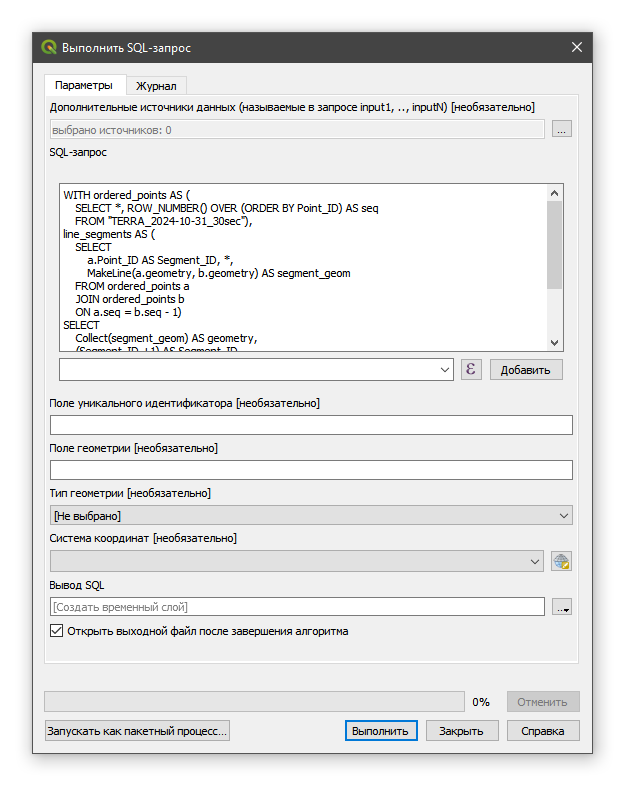
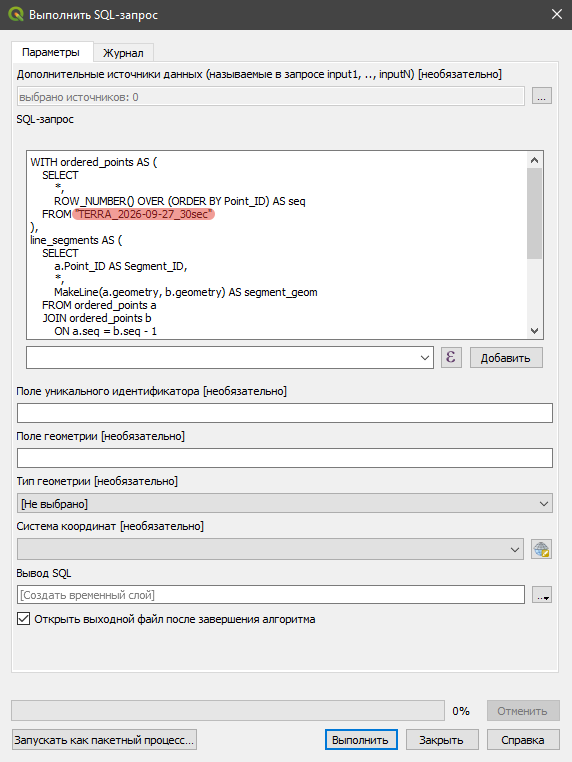
Мои ручные правки на вечер 18 октября 2026

Changed region(s): [[0.0, 0.0, 1.0, 0.9961]]

diff --git a/index.md b/index.md
@@ -57,7 +57,7 @@ style="max-width: 100%; border: 1px solid rgb(0, 163, 211); border-radius: 20px;
 	- [Установка геоинформационной системы QGIS](#установка-геоинформационной-системы-qgis)
 - [Расчет подспутниковых точек](#расчет-подспутниковых-точек)
 	- [Ввод даты вашего варианта](#ввод-даты-вашего-варианта)
-	- [Запуск скрипта](#запуск-скрипта)
+	- [Запуск скрипта на выполнение](#запуск-скрипта-на-выполнение)
 	- [Результат расчета](#результат-расчета)
 - [Создание линейных слоев траекторий](#создание-линейных-слоев-траекторий)
 - [Анимация пролета КА в QGIS](#анимация-пролета-ка-в-qgis)
@@ -75,11 +75,16 @@ style="max-width: 100%; border: 1px solid rgb(0, 163, 211); border-radius: 20px;
 
 В этой работе рассчитываются орбиты для двух космических аппаратов (КА):
 
-1\. [**Международной космической станции**](https://ru.wikipedia.org/wiki/Международная_космическая_станция), сокр. МКС
-(англ. International Space Station, сокр. ISS). \
+1\. <a href="https://ru.wikipedia.org/wiki/Международная_космическая_станция" 
+      title="Ссылка на статью о МКС в Википедии" 
+      target="_blank">
+      <b>Международной космической станции</b></a>, сокр. МКС (англ. International Space Station, сокр. ISS). \
 Номер по спутниковому каталогу NORAD **25544**.
 
-2\. [**TERRA**](https://ru.wikipedia.org/wiki/Терра_(спутник)) — транснационального научно-исследовательского спутника. \
+2\. <a href="https://ru.wikipedia.org/wiki/Терра_(спутник)" 
+      title="Ссылка на статью о МКС в Википедии" 
+      target="_blank">
+      <b>TERRA</b></a> — транснационального научно-исследовательского спутника. \
 Номер по спутниковому каталогу NORAD **25994**.
 
 Орбиты рассчитываются только на одни сутки.
@@ -140,7 +145,8 @@ style="max-width: 100%; border: 1px solid rgb(0, 163, 211); border-radius: 20px;
 ### Рабочая папка
 
 При работе на своем личном компьютере (ноутбуке) создайте в корне диска «C:» (или диска «D:», если имеется) отдельную рабочую папку с названием, например, «**Work_Dir_ORBIT**». \
-Если же вы используете учебный компьютер, установленный в аудитории, и&nbsp;входите в систему под своей личной учетной записью, создайте такую папку на рабочем столе. \
+Если же вы используете учебный компьютер, установленный в аудитории, и&nbsp;входите в систему под своей личной учетной записью, создайте такую папку на рабочем столе 
+— это защитит ваши файлы от возможного удаления или изменения другими студентами, поскольку у&nbsp;них не будет доступа к&nbsp;вашей рабочей папке. \
 В любом случае все скачиваемые и создаваемые вами в этой работе файлы помещайте **только в эту папку**. \
 Не "разбрасывайте" файлы и папки с данными по всему компьютеру!
 
@@ -155,7 +161,7 @@ style="max-width: 100%; border: 1px solid rgb(0, 163, 211); border-radius: 20px;
 <br>
 ### Установка Python и необходимых библиотек
 
-Расчет траекторий выполняется программой (скриптом) на языке **Python**. 
+Расчет траекторий выполняется программой (скриптом) на языке **Python**. \
 Для ее работы на вашем компьютере должен быть установлен Python версии **не ниже 3.10**. \
 Рекомендуемые версии — **Python&nbsp;3.12** или **Python&nbsp;3.13**.
 
@@ -164,8 +170,8 @@ style="max-width: 100%; border: 1px solid rgb(0, 163, 211); border-radius: 20px;
 > Самые свежие версии (3.14 и новее) тоже лучше не брать — для них иногда запаздывают готовые сборки необходимых библиотек.*
 
 **Проверьте, установлен ли Python на вашем компьютере.** \
-Откройте командную строку: нажмите на клавиатуре комбинацию клавиш «**Win&nbsp;+&nbsp;R**», введите `cmd` и нажмите «**Enter**». \
-В открывшемся черном окне командной строки введите следующую команду и нажмите «Enter»:
+Откройте командную строку: для этого нажмите на клавиатуре комбинацию клавиш «**Win&nbsp;+&nbsp;R**», введите `cmd` и нажмите «**Enter**». \
+В открывшемся черном окне командной строки введите следующую команду и нажмите «**Enter**»:
 
 ```
 python --version
@@ -185,54 +191,58 @@ python --version
 - Запустите скачанный установщик. \
   В первом окне мастера установки **обязательно поставьте галочку** «**Add&nbsp;python.exe&nbsp;to&nbsp;PATH**» (она находится внизу окна и по умолчанию снята):
 
-<img src="media/Установщик_Python_Add_to_PATH.png" alt="Нет фото" style="width: ; border: 2px solid #606c71;">
+<img src="media/Установщик_Python_Add_to_PATH.png" alt="Нет фото" style="width: ; border: 1px solid #606c71;">
 
 > *Без этой галочки команда `python` в командной строке работать не будет (Windows просто "не найдет" программу). \
 > Если у вас нет прав администратора компьютера (например, на учебном компьютере), снимите галочку «Use&nbsp;admin&nbsp;privileges&nbsp;when&nbsp;installing&nbsp;py.exe».*
 
 - Нажмите «**Install&nbsp;Now**» и дождитесь окончания установки.
-- **Закройте** окно командной строки, откройте его заново и еще раз выполните команду `python --version` — теперь она должна показать установленную версию.
+- **Закройте** окно командной строки, откройте его заново и еще раз выполните <span style="white-space: nowrap">команду <code>python --version</code></span> — теперь она должна показать установленную версию.
 
 > *Для ОС **macOS** установщик Python также можно скачать с сайта 
    <a href="https://www.python.org/downloads/macos/" 
       title="Ссылка на страницу загрузок Python для macOS" 
       target="_blank">
       <b>python.org</b></a>. 
-> Обратите внимание, что в macOS во всех приведенных ниже командах вместо `python` нужно писать `python3`.*
+> Обратите внимание, что в macOS во всех приведенных ниже командах <span style="white-space: nowrap">вместо <code>python</code> нужно писать <code>python3</code></span>.*
 
 <br>
-**Скачайте файлы работы** и сохраните их в вашей рабочей папке:
+**Скачайте необходимые для работы файлы** и сохраните их в вашей рабочей папке:
 
 - программу (скрипт) для расчета траекторий — 
    <a href="./materials/TLE2GroundTracks_GeoJSON_2026-10-02.py" 
-      download 
+      download="TLE2GroundTracks_GeoJSON_2026-10-02.py" 
       title="Ссылка для загрузки Python-скрипта">
       <b>TLE2GroundTracks_GeoJSON_2026-10-02.py</b></a>;
 - список необходимых скрипту библиотек — 
    <a href="./materials/requirements.txt" 
-      download 
+      download="requirements.txt" 
       title="Ссылка для загрузки файла requirements.txt">
       <b>requirements.txt</b></a>.
 
 > *Скачивайте файлы именно по этим ссылкам, а не копируйте текст программы из окна браузера — при копировании могут нарушиться отступы, а для Python они имеют принципиальное значение.*
 
 <br>
-**Установите библиотеки, необходимые для работы скрипта:**
+**Установите дополнительные библиотеки, необходимые для работы скрипта:**
 
 - **spacetrack** — для получения параметров орбит с сайта Space&#8209;Track;
 - **pyorbital** — для расчета положения КА на орбите.
 
 Откройте командную строку **сразу в вашей рабочей папке**. 
-Для этого откройте рабочую папку в Проводнике Windows, щелкните левой клавишей мыши по адресной строке Проводника (вверху окна), 
-сотрите в ней путь, введите `cmd` и нажмите «Enter»:
+Для этого откройте рабочую папку в&nbsp;Проводнике Windows, щелкните левой клавишей мыши по адресной строке Проводника (вверху&nbsp;окна), 
+сотрите в ней путь, введите `cmd` и нажмите «**Enter**»:
 
-<img src="media/Командная_строка_из_адресной_строки_Проводника.png" alt="Нет фото" style="width: ; border: 2px solid #606c71;">
+<img src="media/Командная_строка_из_адресной_строки_Проводника.png" alt="Нет фото" style="width: ; border: 1px solid #606c71;">
 
-В открывшейся командной строке выполните команду:
+В открывшейся командной строке введите команду:
 
 ```
 python -m pip install -r requirements.txt
 ```
+
+<img src="media/Командная_строка_установка_библиотек.png" alt="Нет фото" style="width: ; border: 1px solid #606c71;">
+
+Выполните ее нажав «**Enter**».
 
 Программа установки **pip** скачает и установит библиотеки spacetrack и pyorbital, а также все библиотеки, которые нужны уже им самим. 
 Первая установка занимает **несколько минут** — не прерывайте ее, даже если кажется, что ничего не происходит. \
@@ -273,12 +283,11 @@ python -c "import spacetrack, pyorbital; print('OK')"
 > Однако он предоставляет только актуальные (самые свежие) TLE, а для расчета траекторий на прошедшие даты нужен архив, который есть именно на Space&#8209;Track.*
 
 Зарегистрируйтесь на сайте Space&#8209;Track, нажав на его главной странице «**Create&nbsp;Account**» и заполнив регистрационную форму. \
+На указанную вами электронную почту (email) придет письмо со ссылкой — перейдите по ней, создайте пароль для вашей учетной записи и завершите процесс регистрации. \
 **Регистрируйтесь заблаговременно** — подтверждение регистрации может прийти не сразу.
 
-После получения доступа впишите ваши логин и пароль от Space&#8209;Track в скрипт. 
-Для этого щелкните по файлу скрипта в Проводнике правой клавишей мыши и выберите «**Edit&nbsp;with&nbsp;IDLE**» 
-*(в Windows&nbsp;11 этот пункт может находиться в подменю «Показать дополнительные параметры»)*. 
-Скрипт откроется в редакторе **IDLE**, который устанавливается вместе с Python. \
+После получения доступа впишите ваши логин и пароль от Space&#8209;Track в скрипт. \
+Для этого найдите на компьютере через меню «Пуск» программу-редактор **IDLE** (устанавливается вместе с Python) и откройте в ней файл скрипта. 
 В начале скрипта найдите строки:
 
 ```python
@@ -288,11 +297,11 @@ PASSWORD = 'ваш_пароль'
 ```
 
 и замените текст `ваш_логин` и `ваш_пароль` на ваши учетные данные. **Одинарные кавычки** вокруг них должны остаться. \
-Сохраните изменения, нажав «**Ctrl&nbsp;+&nbsp;S**».
+Сохраните изменения, нажав на клавиатуре комбинацию клавиш «**Ctrl&nbsp;+&nbsp;S**».
 
 > #### ⚠ *Очень важно:*
 > *Скрипт с вписанными в него логином и паролем — это **ваш личный** файл. Никому его не пересылайте, не выкладывайте в интернет и не&nbsp;отправляйте преподавателю. 
-> Если нужно показать кому-то скрипт, сначала удалите из него пароль.* \
+> Если&nbsp;скрипт нужно кому-то показать, сначала удалите из него пароль.* \
 > \
 > *Space&#8209;Track ограничивает частоту запросов к своим данным. 
 > Если много раз подряд запускать скрипт (особенно, когда это одновременно делает вся группа), ваш аккаунт может быть **временно заблокирован**. 
@@ -346,12 +355,12 @@ PASSWORD = 'ваш_пароль'
 
 ## Расчет подспутниковых точек
 
-Подспутниковые точки (положения КА, спроецированные на поверхность Земли) мы рассчитаем с помощью скачанного ранее Python&#8209;скрипта.
+Подспутниковые точки (положения КА, спроецированные на поверхность Земли) мы рассчитаем с&nbsp;помощью скачанного ранее Python&#8209;скрипта.
 
 ### Ввод даты вашего варианта
 
-Откройте скрипт в редакторе IDLE (правой клавишей мыши по файлу скрипта &rArr; «**Edit&nbsp;with&nbsp;IDLE**») и перейдите в самый его конец. 
-Там находятся две строки, запускающие расчет — для МКС и для TERRA:
+Откройте скрипт в редакторе IDLE и перейдите в самый его конец. 
+Там находятся две строки, запускающие расчет — для МКС и для спутника TERRA:
 
 ```python
 # ISS (ZARYA) ( NORAD ID 25544 )
@@ -364,11 +373,11 @@ create_orbital_track_geojson_for_day(25994, date(2026, 9, 32), 0.5, r'TERRA_2026
 Числа в каждой строке означают:
 - `25544` (или `25994`) — номер КА по спутниковому каталогу NORAD;
 - `date(2026, 9, 32)` — дата расчета: год, месяц, день;
-- `0.5` — шаг расчета в минутах (0,5&nbsp;мин = 30&nbsp;сек — отсюда «_30sec» в имени файла);
+- `0.5` — шаг расчета в минутах *(0,5&nbsp;мин = 30&nbsp;сек — отсюда «_30sec» в имени файла)*;
 - `'ISS_2026-09-32_30sec.geojson'` — имя создаваемого файла с результатом.
 
-Дня «32» в сентябре, конечно, не бывает — это сделано специально: дату своего варианта вы должны вписать сами. \
-**Измените в четырех местах** число «32» на день вашего варианта — в каждой из двух строк дважды: в дате `date(...)` и&nbsp;в&nbsp;имени файла.
+Дня «32» в сентябре, как и в любом другом месяце, конечно, не бывает — это сделано специально: дату своего варианта вы должны вписать сами. \
+**Измените в четырех местах** число «32» на день вашего варианта — в каждой из двух строк дважды: в дате `date(...)` и&nbsp;в&nbsp;имени создаваемого файла.
 
 Например, для варианта на 27 сентября 2026 года строки должны принять вид:
 
@@ -385,20 +394,20 @@ create_orbital_track_geojson_for_day(25994, date(2026, 9, 27), 0.5, r'TERRA_2026
 > \
 > *Если ваш день меньше 10, то в дате `date(...)` его нужно писать **одной цифрой, без нуля впереди**:* \
 > &nbsp;&nbsp;&nbsp;&nbsp;✔&nbsp; правильно: `date(2026, 9, 6)` \
-> &nbsp;&nbsp;&nbsp;&nbsp;✘&nbsp; ошибка: `date(2026, 09, 06)` *— Python вообще откажется запускать такой скрипт с ошибкой* `SyntaxError`. \
-> *А вот в имени файла ноль впереди, наоборот, нужен (для единообразия имен):* `'ISS_2026-09-06_30sec.geojson'`.
+> &nbsp;&nbsp;&nbsp;&nbsp;✘&nbsp; ошибка: `date(2026, 09, 06)` *— Python вообще откажется запускать такой скрипт с&nbsp;ошибкой* `SyntaxError`. \
+> *А вот в имени файла ноль впереди, наоборот, нужен (для единообразия имен создаваемых файлов):* `'ISS_2026-09-06_30sec.geojson'`.
 
 Шаг расчета `0.5` в этой работе **не изменяйте**.
 
-Сохраните внесенные в скрипт изменения, нажав «**Ctrl&nbsp;+&nbsp;S**».
+Сохраните внесенные в скрипт изменения, нажав на клавиатуре комбинацию клавиш «**Ctrl&nbsp;+&nbsp;S**».
 
 <br>
-### Запуск скрипта
+### Запуск скрипта на выполнение
 
 Запустить скрипт можно одним из двух способов.
 
 **Способ 1 — из командной строки.** \
-Откройте командную строку в вашей рабочей папке (через адресную строку Проводника, как это описано выше в разделе об установке библиотек) и выполните команду:
+Откройте командную строку в вашей рабочей папке (через адресную строку Проводника, как это описано выше в разделе об установке дополнительных библиотек) и выполните команду:
 
 ```
 python TLE2GroundTracks_GeoJSON_2026-10-02.py
@@ -415,18 +424,18 @@ python TLE2GroundTracks_GeoJSON_2026-10-02.py
 <br>
 ### Результат расчета
 
-При успешном выполнении скрипт для каждого КА выведет два сообщения, а в рабочей папке *(там же, где находится сам скрипт)* появятся два новых файла 
+При успешном выполнении скрипт для каждого КА выведет два сообщения, а в рабочей папке *(там&nbsp;же, где находится сам скрипт)* появятся два новых файла 
 — **ISS_2026-09-27_30sec.geojson** и **TERRA_2026-09-27_30sec.geojson** *(с датой вашего варианта)*:
 
-<img src="media/Вывод_скрипта_в_командной_строке.png" alt="Нет фото" style="width: ; border: 2px solid #606c71;">
+<img src="media/Вывод_скрипта_в_IDLE_Shell.png" alt="Нет фото" style="width: ; border: 1px solid #606c71;">
 
 Первое сообщение показывает **эпоху** использованного набора TLE — момент времени, на который рассчитаны параметры орбиты. 
 Скрипт выбирает из архива Space&#8209;Track набор TLE с эпохой, ближайшей к середине (12:00 UTC) суток вашего варианта, 
-и сообщает, на сколько часов она от нее отстоит. \
+и сообщает, на сколько именно часов она от нее отстоит. \
 Если появится предупреждение `ВНИМАНИЕ: за ближайшие к указанной дате сутки TLE не публиковались...` — это не ошибка: расчет выполнен, 
-но по более старым (или более новым) параметрам орбиты, и точность траектории может быть несколько ниже. *Почему так происходит, объясняется в разделе [«Краткая теория»](#краткая-теория).*
+но по более старым (или более новым) параметрам орбиты, и точность рассчитанной траектории может быть несколько ниже. *Почему так происходит, объясняется в разделе [«Краткая теория»](#краткая-теория).*
 
-Второе сообщение подтверждает, что файл с результатом успешно сохранен, и показывает полный путь к нему.
+Второе сообщение подтверждает, что файл с результатом расчета успешно сохранен, и показывает полный путь к нему.
 
 <br>
 Созданные файлы имеют формат 
@@ -434,13 +443,13 @@ python TLE2GroundTracks_GeoJSON_2026-10-02.py
       title="Ссылка на статью о GeoJSON в Википедии" 
       target="_blank">
       <b>GeoJSON</b></a> 
-— открытый текстовый формат для хранения географических данных, который понимают практически все ГИС и веб&#8209;карты. 
+— открытый текстовый формат для хранения географических данных, который понимают практически все ГИС и веб&#8209;карты. \
 Каждый файл содержит **точечный ГИС&#8209;слой**: при шаге 30&nbsp;сек за сутки получается 2880 точек. 
-Для каждой точки рассчитаны следующие атрибуты:
+Для&nbsp;каждой точки рассчитаны следующие атрибуты:
 
-| Атрибут | Содержание |
+| Атрибут | Описание |
 |---|---|
-| `Point_ID` | порядковый номер точки (начиная с 0) |
+| `Point_ID` | порядковый номер подспутниковой точки (начиная с `0`) |
 | `Orbit_Num` | номер витка КА |
 | `Date_Time` | дата и время в формате `ГГГГ-ММ-ДД ЧЧ:ММ:СС` (**UTC**) |
 | `Latitude` | широта подспутниковой точки, градусы |
@@ -451,10 +460,10 @@ python TLE2GroundTracks_GeoJSON_2026-10-02.py
 | `Orbit_Incl` | наклонение орбиты КА, градусы |
 
 > #### *Обратите внимание:*
-> *Время в атрибуте `Date_Time` (как и во всей работе) — это всемирное координированное время **UTC**, а не московское. 
+> *Время в атрибуте `Date_Time` (как и во всей работе) — это всемирное координированное время **UTC** (англ. Coordinated Universal Time), а не московское время. 
 > Московское время опережает UTC на 3&nbsp;часа: например, 12:00&nbsp;UTC — это 15:00 по Москве.*
 
-Перенесите оба созданных файла в папку «**Calculated_Tracks**» внутри вашей рабочей папки.
+Перенесите оба созданных файла в папку «**Calculated_Tracks**» уже имеющуюся внутри вашей рабочей папки.
 
 <br>
 🔼 [Вернуться к ОГЛАВЛЕНИЮ](#оглавление)
@@ -465,13 +474,13 @@ python TLE2GroundTracks_GeoJSON_2026-10-02.py
 
 ## Создание линейных слоев траекторий
 
-Создайте новый (пустой) QGIS-проект и добавьте в него созданные слои подспутниковых точек в формате GeoJSON.
+Создайте новый (пустой) QGIS-проект, добавьте в него базовую карту «OpenStreetMap» (OSM&nbsp;Standard) и созданные слои подспутниковых точек в формате GeoJSON.
 
-Откройте в интерфейсе QGIS панель «Инструменты анализа».
+Откройте в интерфейсе QGIS панель «**Инструменты анализа**» через меню «Вид &rArr; Панели &rArr; Инструменты&nbsp;анализа» или нажав кнопку ![](media/processingAlgorithm.svg).
 
-Найдите алгоритм «**Выполнить SQL-запрос**» и откройте его панель.
+Найдите в группе «**Вектор - общие инструменты**» (<u>именно в ней</u>) алгоритм «**Выполнить SQL&#8209;запрос**» и откройте его панель (диалоговое окно).
 
-Скопируйте представленный ниже код (SQL-запрос) и вставьте его в ячейку «**SQL-запрос**» панели алгоритма.
+Скопируйте представленный ниже код (SQL&#8209;запрос) и вставьте его на панели алгоритма в ячейку «**SQL&#8209;запрос**».
 
 ```sql
 WITH ordered_points AS (
@@ -498,39 +507,71 @@ FROM line_segments
 GROUP BY Segment_ID
 ```
 
-Измените текст `<Имя слоя подспутниковых точек>` на имя соответствующего слоя (в моем примере – это «TERRA_2026-09-27_30sec»).
+Измените текст `<Имя слоя подспутниковых точек>`, включая входящие в него угловые скобки **<** и **>**, на&nbsp;имя соответствующего слоя 
+*(в моем примере ниже это «TERRA_2026-09-27_30sec»)*.
 
 Ячейку «Вывод SQL» оставьте незаполненной – таким образом создастся и добавится в QGIS временный слой.
 
-<img src="media/Алгоритм_Выполнить_SQL-запрос.png" alt="Нет фото" style="width: ; border: 2px solid #606c71;">
+<img src="media/Алгоритм_Выполнить_SQL-запрос.png" alt="Нет фото" style="width: ; border: 1px solid #606c71;">
 
-Выполните алгоритм «Выполнить SQL-запрос», нажав кнопку «Выполнить».
+Запустите алгоритм «Выполнить SQL&#8209;запрос», нажав кнопку «**Выполнить**».
 
-Полученный новый линейный слой с именем «**Вывод SQL**» будет состоять из отдельных сегментов (отрезков) траектории, а каждому сегменту присвоятся соответствующие точке его начала атрибутивные данные.
+Полученный новый линейный слой с именем «**Вывод&nbsp;SQL**» будет состоять из отдельных сегментов (отрезков) траектории, 
+а каждому сегменту присвоятся соответствующие точке его начала атрибутивные данные.
 
 <!-- ЗАГОТОВКА: в слое "Вывод SQL" поле Date_Time строковое (String) - это нормально, в итоговом GeoJSON оно станет "дата и время" -->
 
-Однако полученный слой будет «иметь проблемы» на антимеридиане.
+Однако полученный слой будет «иметь проблемы горизонтальных линий» (артефакты) из-за пересечения некоторыми сегментами траектории меридиана 180° долготы (антимеридиана).
 
-<!-- ЗАГОТОВКА: объяснение проблемы горизонтальных линий (отрезки через всю карту на ±180°) - зачем нужен следующий алгоритм -->
-<img src="media/Горизонтальные_линии_на_антимеридиане.png" alt="Нет фото" style="width: ; border: 2px solid #606c71;">
+<img src="media/Горизонтальные_линии_из-за_антимеридиана.png" alt="Нет фото" style="width: ; border: 1px solid #606c71;">
 
-Устранить данное явление можно с помощью алгоритма «**Геодезическая линия, разделенная на 180° меридиане**».
+Устранить данное явление можно с помощью алгоритма «**Геодезическая линия, разделенная на 180°&nbsp;меридиане**», 
+применив его к временному линейному слой «Вывод&nbsp;SQL».
 
-Найдите его в панели «Инструменты анализа» и откройте его панель.
+Воспользывавшись поиском, имеющимся в панели «Инструменты&nbsp;анализа», найдите алгоритм «Геодезическая линия, разделенная на 180°&nbsp;меридиане» 
+*(он находится в группе «Инструменты обработки геометрии векторных объектов»)* и откройте его диалоговое окно.
 
-<img src="media/Алгоритм_Разделение_линии_на_180_меридиане.png" alt="Нет фото" style="width: ; border: 2px solid #606c71;">
+Укажите путь к папке «Calculated_Tracks» для сохранения файла. Выберите формат **GeoJSON** *(именно обычный* `*.geojson`*)* 
+и назовите файл по имени слоя соответствующей орбиты, добавив в&nbsp;конце «**_Segments**» 
+*(в моем примере это «TERRA_2026-09-27_30sec_Segments.geojson»)*.
 
-Укажите путь для сохранения файла, задав ему формат GeoJSON и имя соответствующей орбиты, добавив к нему в конце «_Segments»
-(в моем примере – это «TERRA_2026-09-27_30sec_Segments.geojson»).
+<img src="media/Алгоритм_Разделение_линии_на_180_меридиане.png" alt="Нет фото" style="width: ; border: 1px solid #606c71;">
+<br><br>
+> #### *Как работает этот алгоритм:*
+> *Алгоритм разбивает линию, пересекающую меридиан 180° долготы (антимеридиан), на&nbsp;несколько геодезических сегментов. 
+Разделение сегментов на антимеридиане обеспечивает визуально корректное отображение линий в некоторых проекциях. Результирующая геометрия таких сегментов всегда будет составной. \
+Всякий раз, когда сегменты линий во входной геометрии пересекают антимеридиан, они будут разделены на два сегмента, причем широта точки разрыва определяется с помощью **геодезической** линии, 
+соединяющей точки начала и конца такого сегмента. \
+При вычислении точки разрыва используется текущая настройка эллипсоида проекта. \
+Таким образом, в результате работы алгоритма, артефактов в виде «горизонтальных линий» и «недотягиваний орбит (наземных траекторий) до краев карты на ±180°» у итогового линейного слоя уже не будет:* \
+> <br>
+> &nbsp;&nbsp;&nbsp;&nbsp;&nbsp;&nbsp;<img src="media/Пример_избавления_от_артефактов_на_180_меридиане.png" alt="Нет фото" style="width: 95%; border: 0px solid #606c71;"> 
+> <br><br>
+> *Поэтому такие слои наземных траекторий отлично подходят для карт в общемировых системах координат и проекциях таких как: \
+> &nbsp;&#9679;&nbsp; Веб Меркатор или «Псевдо-Меркатор» (EPSG:3857); \
+> &nbsp;&#9679;&nbsp; Географическая широта/долгота в градусах на WGS-84 (EPSG:4326); \
+> &nbsp;&#9679;&nbsp; Sphere_Eckert_III, Sphere_Eckert_IV, Sphere_Aitoff и World_Aitoff; \
+> &nbsp;&#9679;&nbsp; Equal Earth Greenwich (EPSG:8857) и ей аналогичных.*
 
-<!-- ЗАГОТОВКА: повторить SQL-запрос и разделение для второго КА (МКС) -->
+<br>
+Запустите алгоритм «Геодезическая линия, разделенная на 180°&nbsp;меридиане», нажав «**Выполнить**».
 
-**В результате у вас должно получиться (создаться) четыре следующих файла:**
+Удалите из QGIS-проекта промежуточный временный слой «Вывод&nbsp;SQL».
 
-<img src="media/Итоговые_файлы_в_Calculated_Tracks.png" alt="Нет фото" style="width: ; border: 2px solid #606c71;">
+Повторите последовательно алгоритмы «Выполнить SQL&#8209;запрос» и «Геодезическая линия, разделенная на 180°&nbsp;меридиане» для **второго** КА (**МКС**).
 
-(в моем примере орбиты рассчитаны для 27 сентября 2026 года).
+В результате в папке «Calculated_Tracks» у вас должно получиться (создаться) четыре файла *(в&nbsp;моем примере орбиты рассчитаны для 27 сентября 2026 года)*:
+
+<img src="media/Итоговые_файлы_в_Calculated_Tracks.png" alt="Нет фото" style="width: ; border: 1px solid #606c71;">
+
+
+
+
+
+
+
+
+
 
 > #### *Справочно:*
 > <!-- ЗАГОТОВКА: алгоритм "Точки в контур" (Points to path) - альтернатива: строит линию (можно с группировкой по атрибуту), но с горизонтальными линиями на антимеридиане и без атрибутов по отрезкам -->
